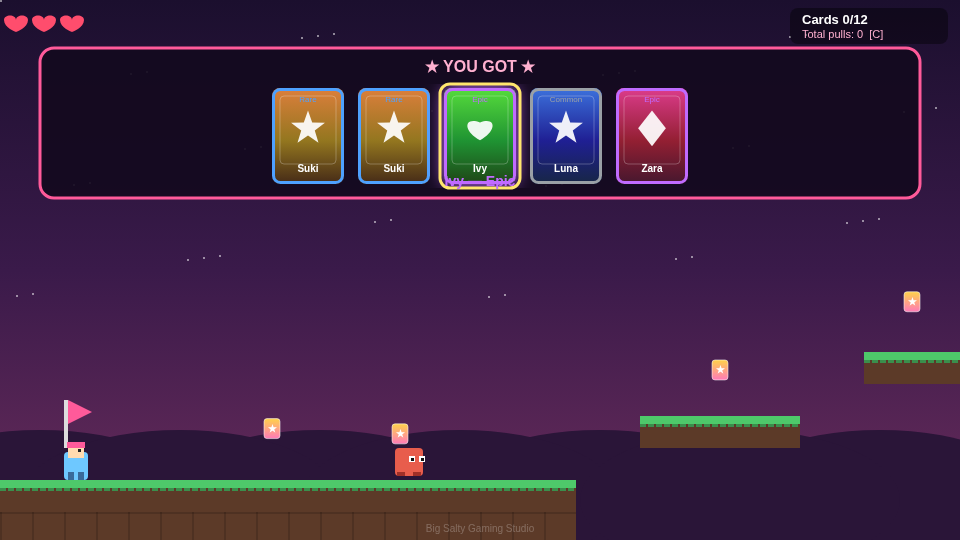
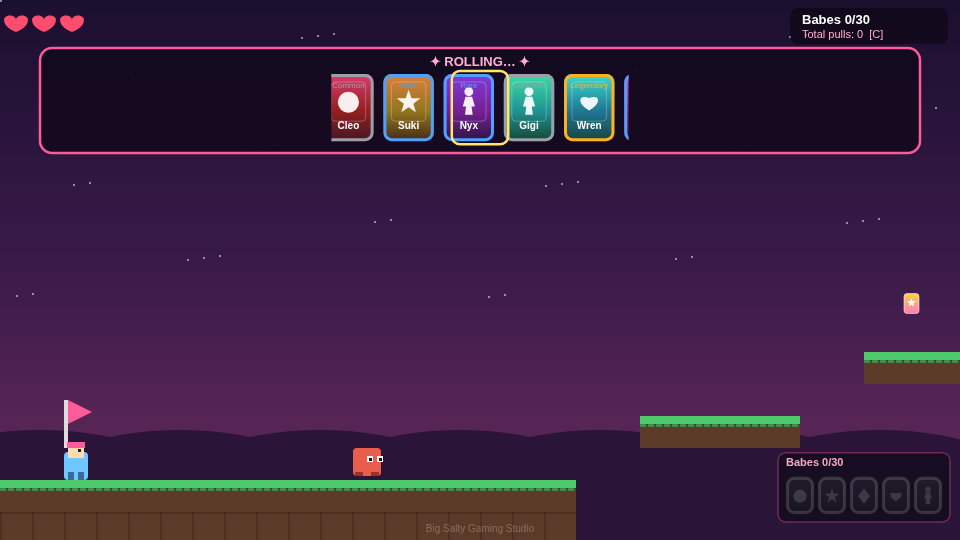
Shrink slot panel 30% and lighten mobile controls
Slot height and cards scale at 0.7 keeping 3:4. Touch/fullscreen
buttons use ~10% fill and ~30% outline/glyph opacity.

diff --git a/index.html b/index.html
@@ -55,20 +55,25 @@
     pointer-events: auto;
     width: 78px; height: 78px;
     border-radius: 50%;
-    background: rgba(255,255,255,0.22);
-    border: 3px solid rgba(255,255,255,0.4);
-    color: #fff;
+    background: rgba(255,255,255,0.10); /* ~90% transparent fill */
+    border: 3px solid rgba(255,255,255,0.30); /* ~70% transparent outline */
+    color: rgba(255,255,255,0.30); /* ~70% transparent glyph */
     font-size: 26px;
     font-weight: bold;
     display: flex;
     align-items: center;
     justify-content: center;
-    backdrop-filter: blur(4px);
+    backdrop-filter: none;
     -webkit-user-select: none;
     user-select: none;
     touch-action: none;
   }
-  .tbtn:active, .tbtn.active { background: rgba(255,120,180,0.5); transform: scale(0.96); }
+  .tbtn:active, .tbtn.active {
+    background: rgba(255,120,180,0.28);
+    border-color: rgba(255,255,255,0.45);
+    color: rgba(255,255,255,0.55);
+    transform: scale(0.96);
+  }
   #tLeft  { left: max(16px, env(safe-area-inset-left)); bottom: max(24px, env(safe-area-inset-bottom)); }
   #tRight { left: calc(max(16px, env(safe-area-inset-left)) + 90px); bottom: max(24px, env(safe-area-inset-bottom)); }
   #tJump  {
@@ -90,15 +95,16 @@
     pointer-events: auto;
     padding: 8px 12px;
     border-radius: 8px;
-    border: 1px solid rgba(255,255,255,0.35);
-    background: rgba(0,0,0,0.45);
-    color: #fff;
+    border: 1px solid rgba(255,255,255,0.30);
+    background: rgba(255,255,255,0.10);
+    color: rgba(255,255,255,0.30);
     font-size: 12px;
     font-weight: bold;
     display: none;
     touch-action: none;
   }
   #fsBtn.show { display: block; }
+  #fsBtn:active { background: rgba(255,120,180,0.28); color: rgba(255,255,255,0.55); border-color: rgba(255,255,255,0.45); }
   #rotateHint {
     display: none;
     position: absolute;
@@ -1484,65 +1490,67 @@ function drawHUD() {
 
 function drawSlot() {
   // Overlay only — no screen dimming; world keeps rendering underneath
+  // Panel height is 70% of the original 150px; cards scale uniformly (3:4)
   const panelY = 48;
-  const panelH = 150;
+  const panelH = Math.round(150 * 0.7); // 105
+  const scale = 0.7;
   ctx.fillStyle = "rgba(20,10,30,0.92)";
-  roundRect(40, panelY, W - 80, panelH, 14);
+  roundRect(40, panelY, W - 80, panelH, 12);
   ctx.fill();
   ctx.strokeStyle = "#ff5a9a";
-  ctx.lineWidth = 3;
-  roundRect(40, panelY, W - 80, panelH, 14);
+  ctx.lineWidth = 2.5;
+  roundRect(40, panelY, W - 80, panelH, 12);
   ctx.stroke();
 
   ctx.fillStyle = "#ffb0d0";
-  ctx.font = "bold 16px sans-serif";
+  ctx.font = "bold 13px sans-serif";
   ctx.textAlign = "center";
-  ctx.fillText(slot.done ? "★ YOU GOT ★" : "✦ ROLLING… ✦", W/2, panelY + 24);
+  ctx.fillText(slot.done ? "★ YOU GOT ★" : "✦ ROLLING… ✦", W/2, panelY + 18);
 
   if (slotQueue > 0) {
     ctx.fillStyle = "#ffe66d";
-    ctx.font = "bold 12px sans-serif";
+    ctx.font = "bold 11px sans-serif";
     ctx.textAlign = "right";
-    ctx.fillText("Queue +" + slotQueue, W - 56, panelY + 24);
+    ctx.fillText("Queue +" + slotQueue, W - 56, panelY + 18);
   }
 
-  // card window
-  const cw = 72, ch = cardHeight(72); // canonical 72×96
-  const gap = 14;
+  // card window — width derived from height via CARD_ASPECT
+  const cw = 72 * scale;           // 50.4
+  const ch = cardHeight(cw);       // exact 3:4
+  const gap = 14 * scale;
   const centerX = W/2;
-  const cy = panelY + 40;
+  const cy = panelY + 26;
   const viewW = cw * 5 + gap * 4;
   const vx = centerX - viewW/2;
 
   ctx.save();
   ctx.beginPath();
-  ctx.rect(vx - 4, cy - 4, viewW + 8, ch + 8);
+  ctx.rect(vx - 3, cy - 3, viewW + 6, ch + 6);
   ctx.clip();
 
   const base = slot.offset;
-  // draw visible cards around current offset
   for (let i = -3; i <= 3; i++) {
     const idx = Math.floor(base) + i;
     if (idx < 0 || idx >= slot.strip.length) continue;
     const frac = base - Math.floor(base);
     const cx = centerX + (i - frac) * (cw + gap) - cw/2;
     const char = slot.strip[idx];
-    const isCenter = i === 0 && Math.abs(frac) < 0.5;
     drawCard(char, cx, cy, cw, ch, { glow: slot.done && idx === slot.targetIndex ? 1 : 0 });
   }
   ctx.restore();
 
   // center highlight frame
   ctx.strokeStyle = "#ffe66d";
-  ctx.lineWidth = 3;
-  roundRect(centerX - cw/2 - 4, cy - 4, cw + 8, ch + 8, 10);
+  ctx.lineWidth = 2.5;
+  roundRect(centerX - cw/2 - 3, cy - 3, cw + 6, ch + 6, 8);
   ctx.stroke();
 
   if (slot.done) {
     const rar = rarityOf(slot.result.id);
     ctx.fillStyle = rar.color;
-    ctx.font = "bold 14px sans-serif";
-    ctx.fillText(slot.result.name + " — " + rar.label, W/2, panelY + panelH - 12);
+    ctx.font = "bold 12px sans-serif";
+    ctx.textAlign = "center";
+    ctx.fillText(slot.result.name + " — " + rar.label, W/2, panelY + panelH - 8);
   }
 }
 
@@ -2197,7 +2205,7 @@ window.__HBC = {
   getSlotQueue: () => slotQueue,
   getCardAspect: () => CARD_ASPECT,
   getCardLayouts: () => {
-    const slot = { w: 72, h: cardHeight(72) };
+    const slot = { w: 72 * 0.7, h: cardHeight(72 * 0.7) };
     const collection = { w: 100, h: cardHeight(100) };
     const title = { w: 90, h: cardHeight(90) };
     const world = { w: 15, h: cardHeight(15) };
